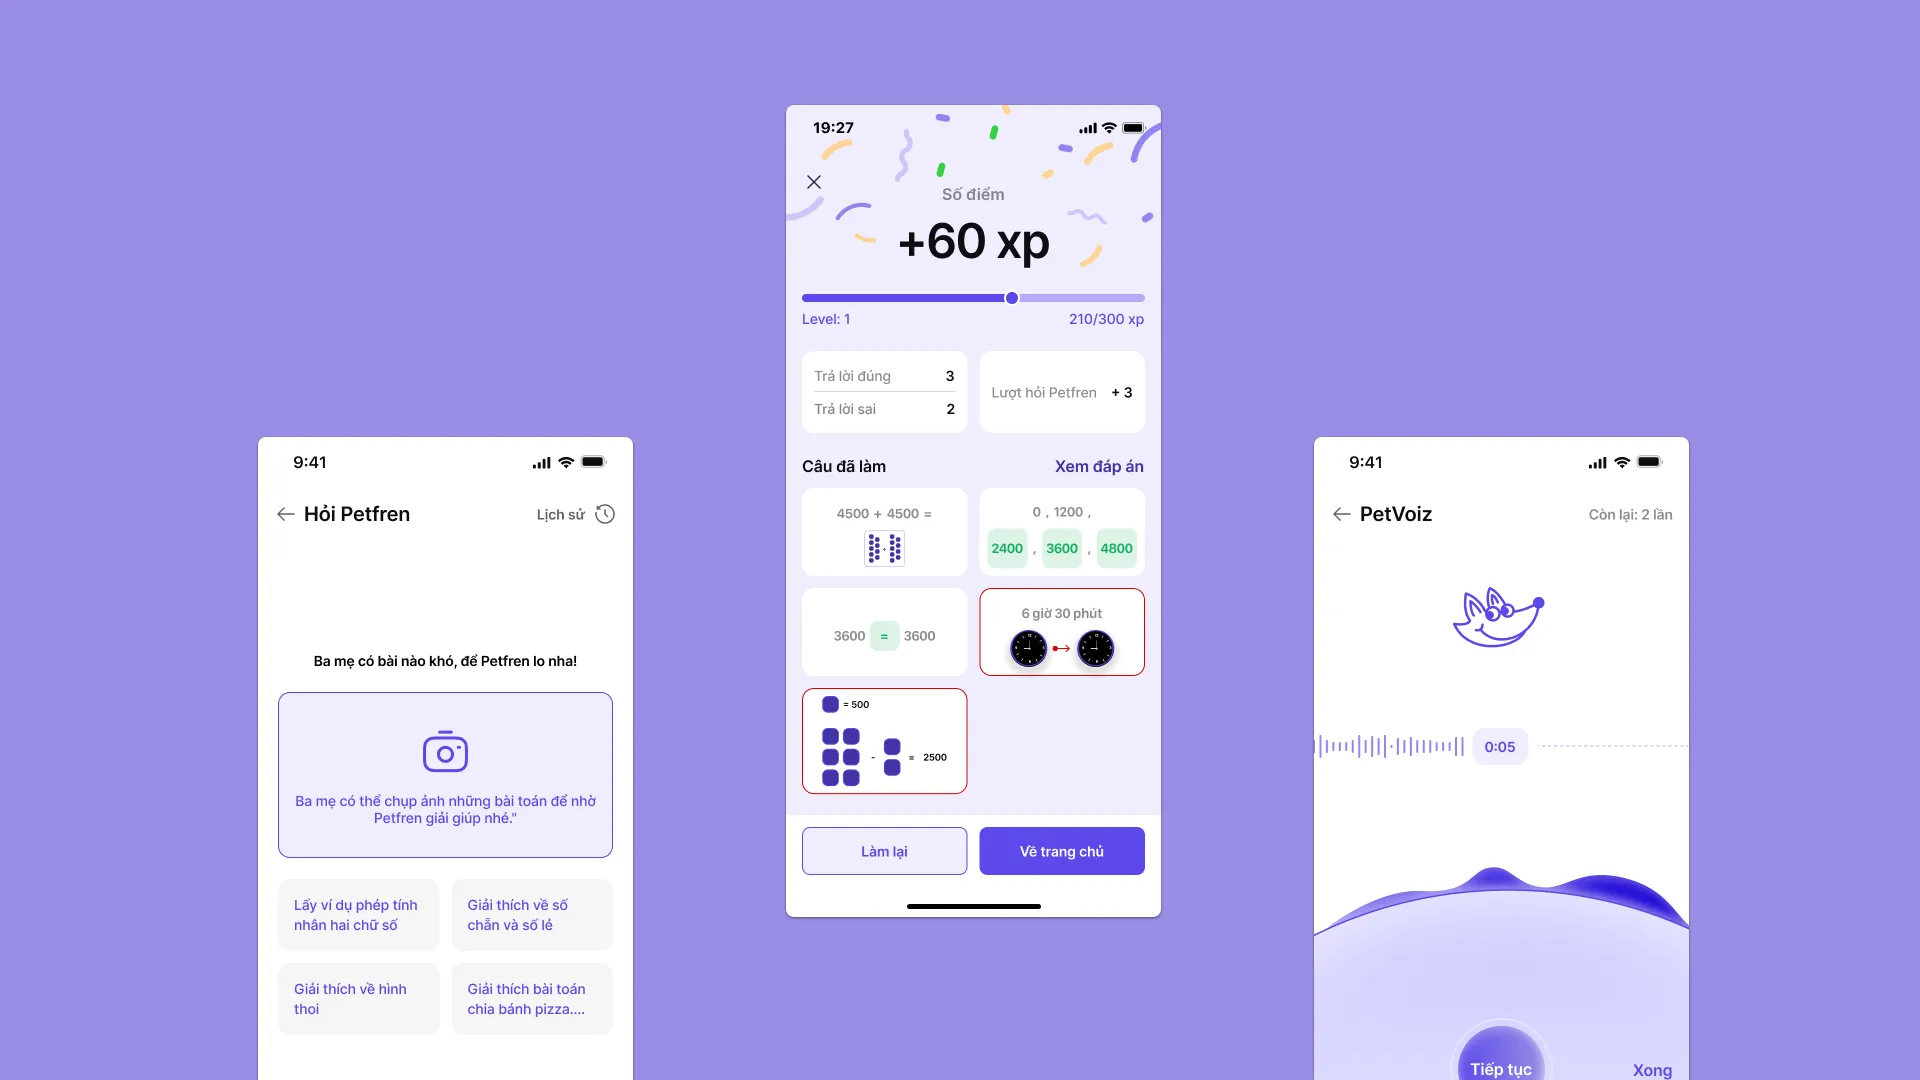
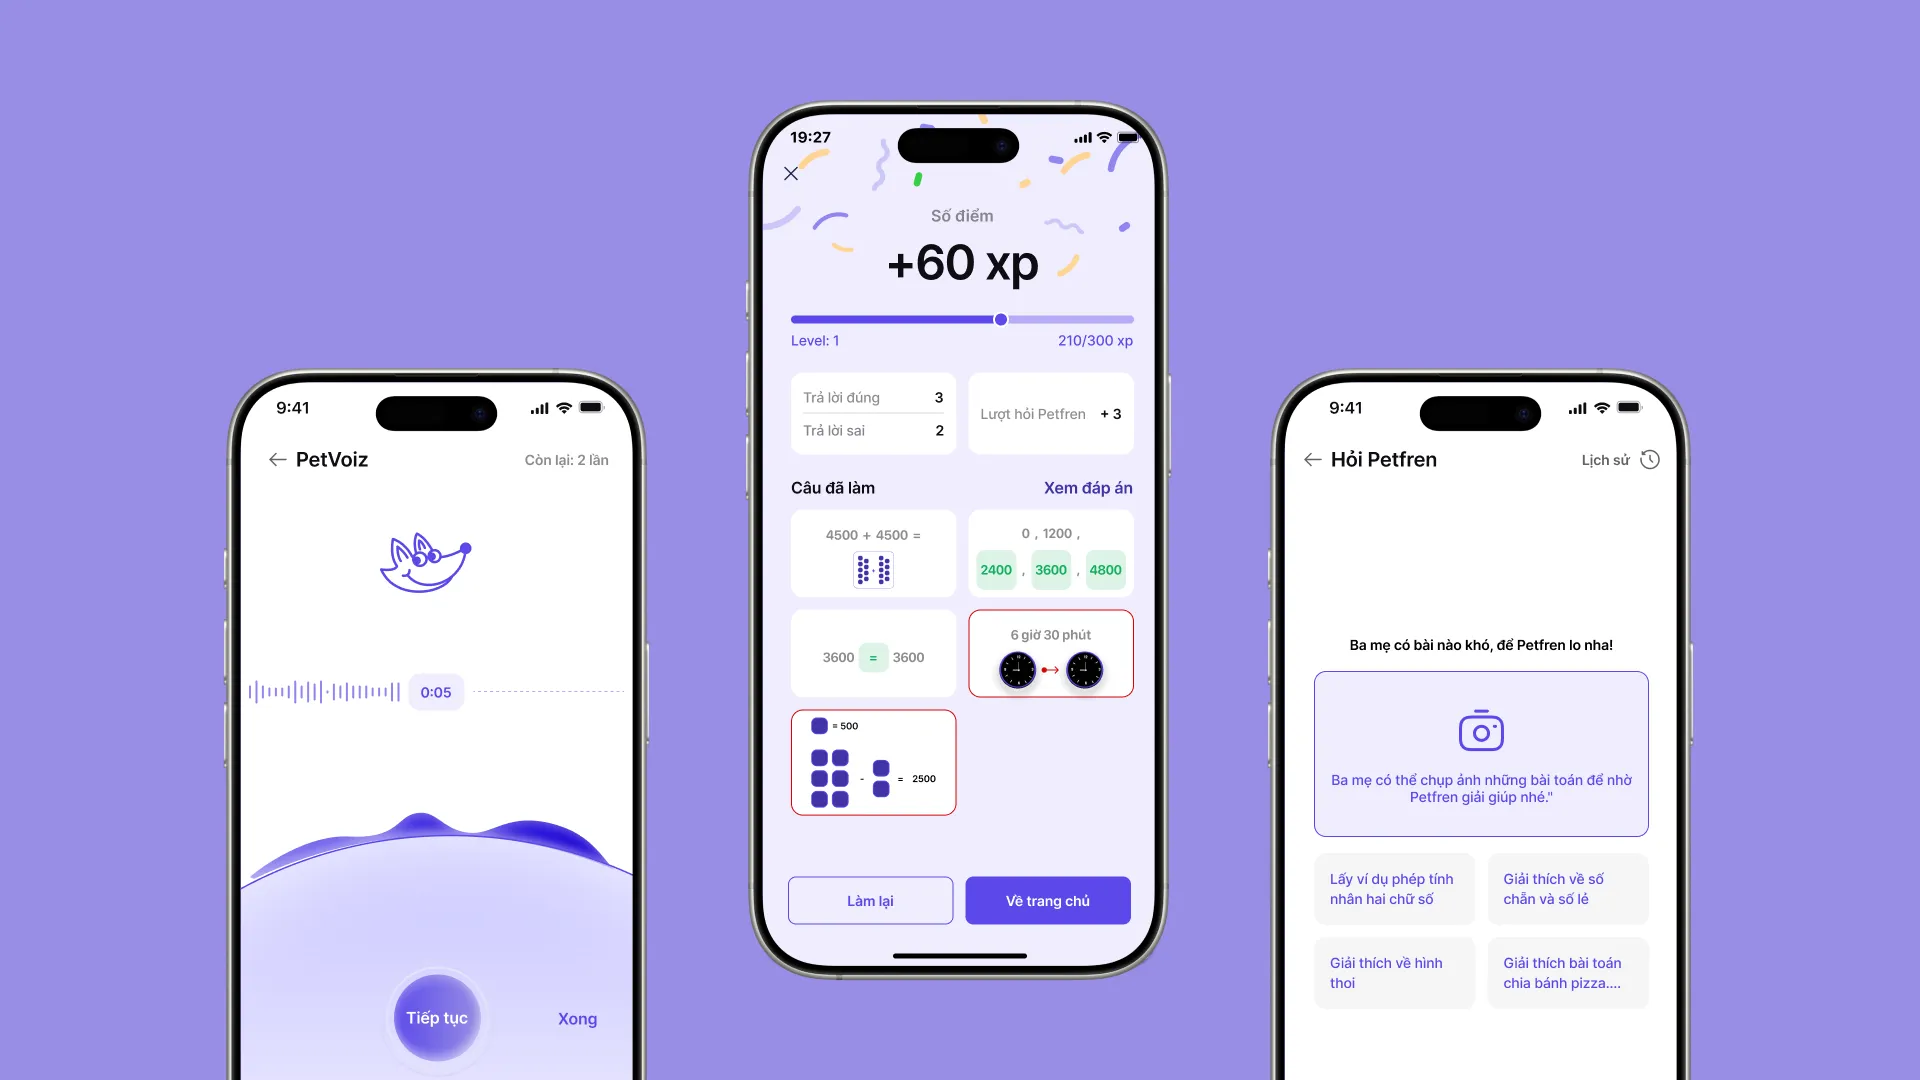
Changed images now featuring mock up devices

diff --git a/assets/sass/_page.scss b/assets/sass/_page.scss
@@ -36,11 +36,11 @@
         p img {
             max-width: 100%;
             height: auto;
-            padding-block: 1rem;
+            padding-block: 1rem;    
         }
     }
 
-    @media screen and (max-width: 767px) {
+    @media screen and (max-width: 768px) {
         padding: 3rem 1rem;
     }
 }

diff --git a/content/dede/index.md b/content/dede/index.md
@@ -16,7 +16,7 @@ In September 2025, I had privilege to join one of the most famous competition in
 ---
 
 ## Problem Space
-The young college student population presents a unique challenge of moving from their idyllic home to a relatively busy chaotic landscape of the city. They know virtually nothing about traffic laws despite they already had a driving license. Only after accidentally violated one of our many many gimmicky and unique traffic laws in the city did they learn that one specific piece forever.
+Let's say you wanted to ride your motorbike or drive your car the first time in Hanoi. But you don't know any ins or outs things to be careful when participate in Hanoi's traffics. 
 
 ---
 ## The Challenge